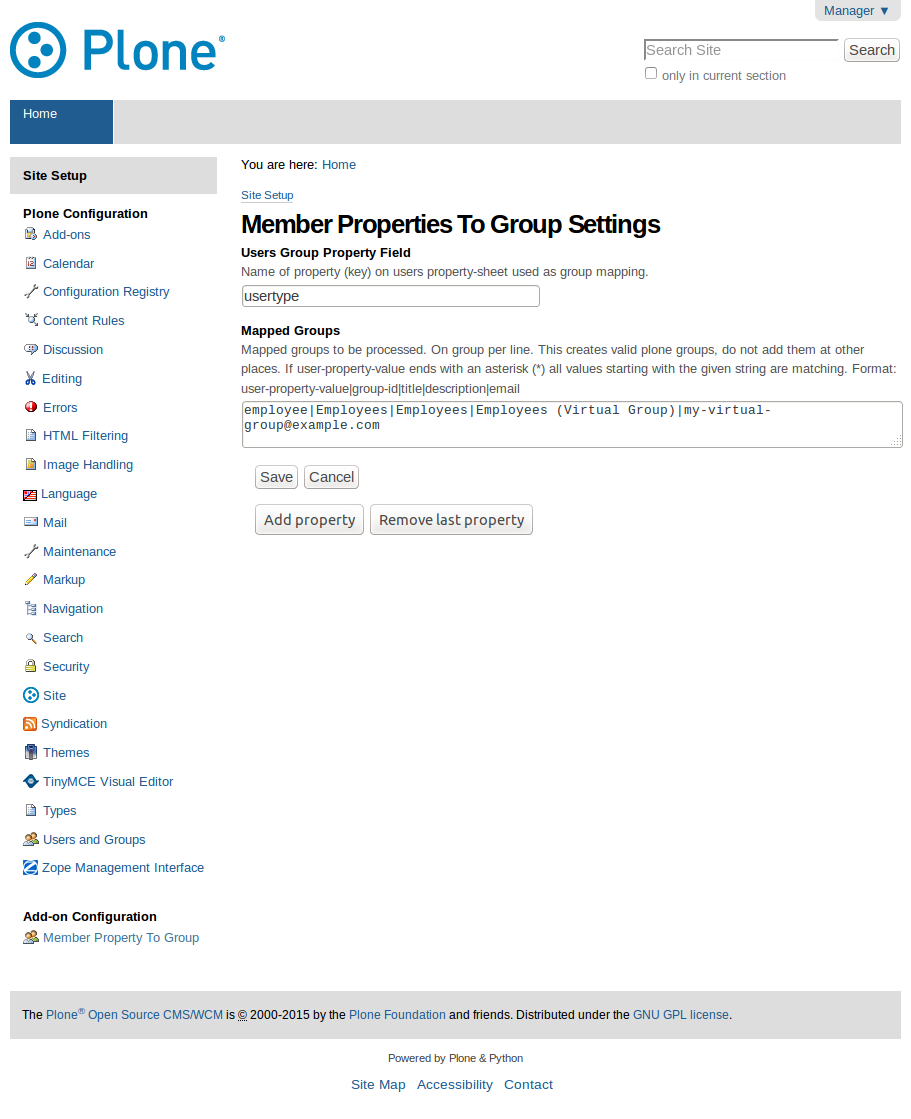
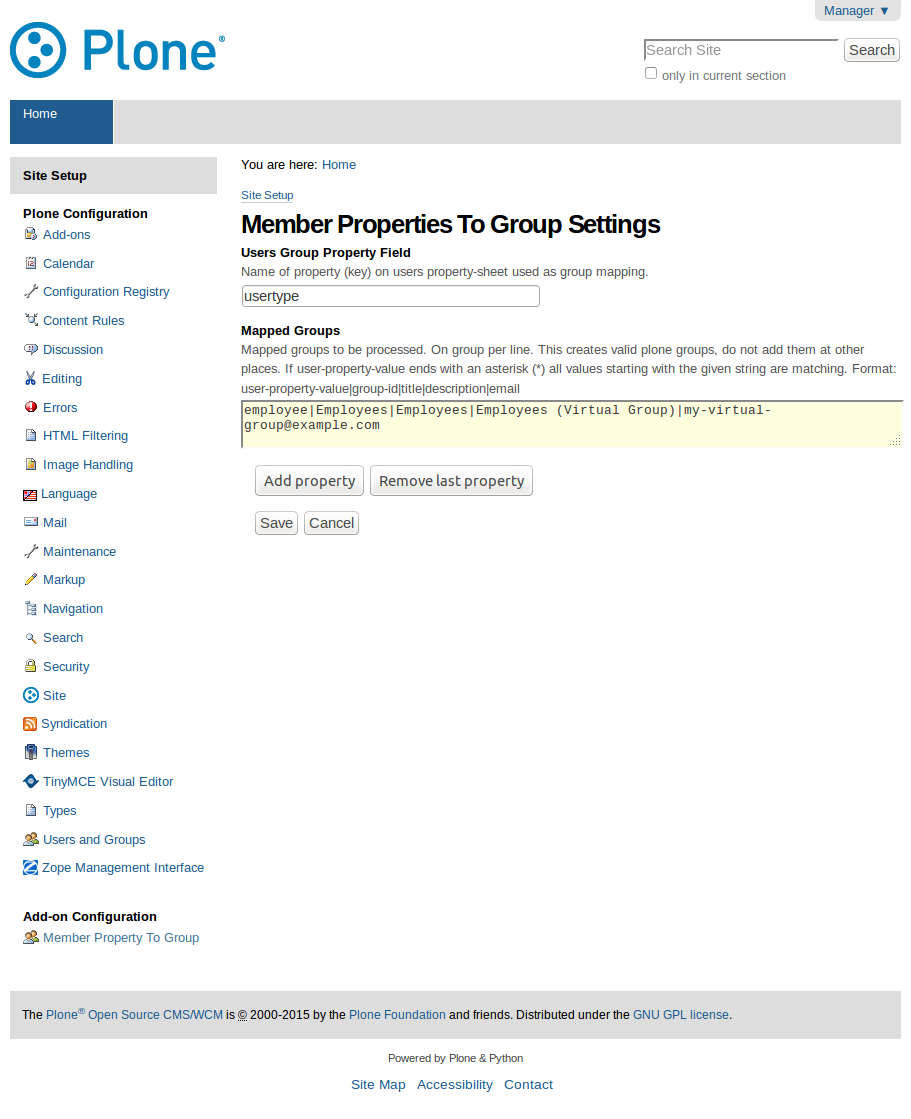
CHANGES style.

Changed region(s): [[0.2459, 0.3342, 1.0, 0.4861]]

diff --git a/CHANGES.rst b/CHANGES.rst
@@ -5,9 +5,10 @@ Changelog
 1.0a5 (unreleased)
 ------------------
 
-- Fix js to work with Plone 3 
+- Fix js to work with Plone 3.
   [csenger]
-- Move add/remove buttons in controlpanel above the save/cancel buttons
+
+- Move add/remove buttons in controlpanel above the save/cancel buttons.
   [csenger]
 
 
